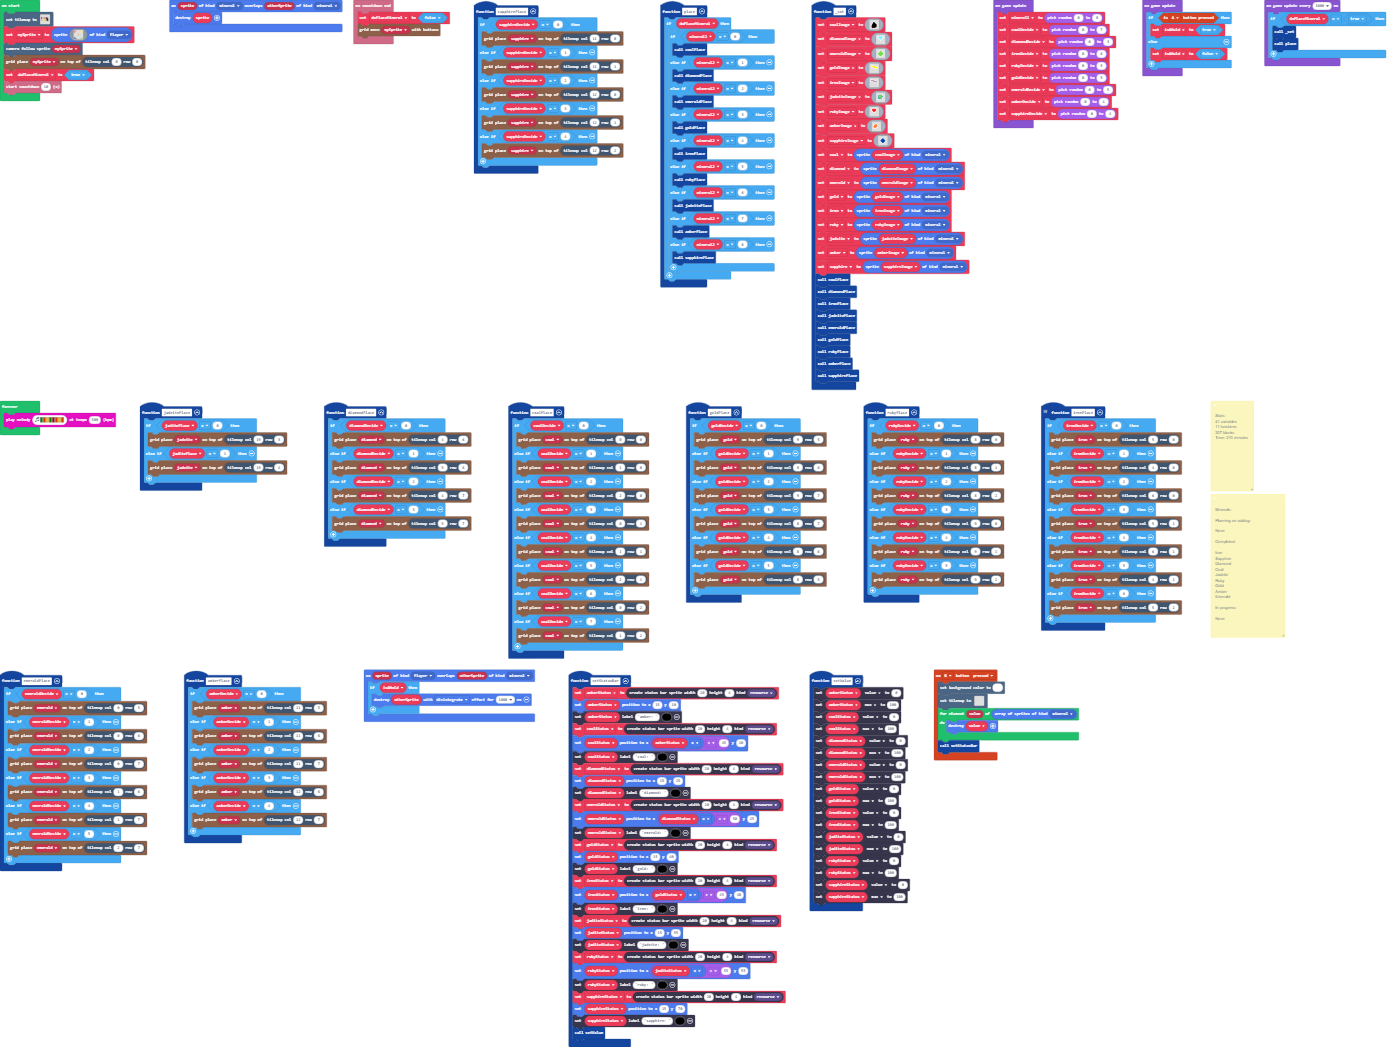
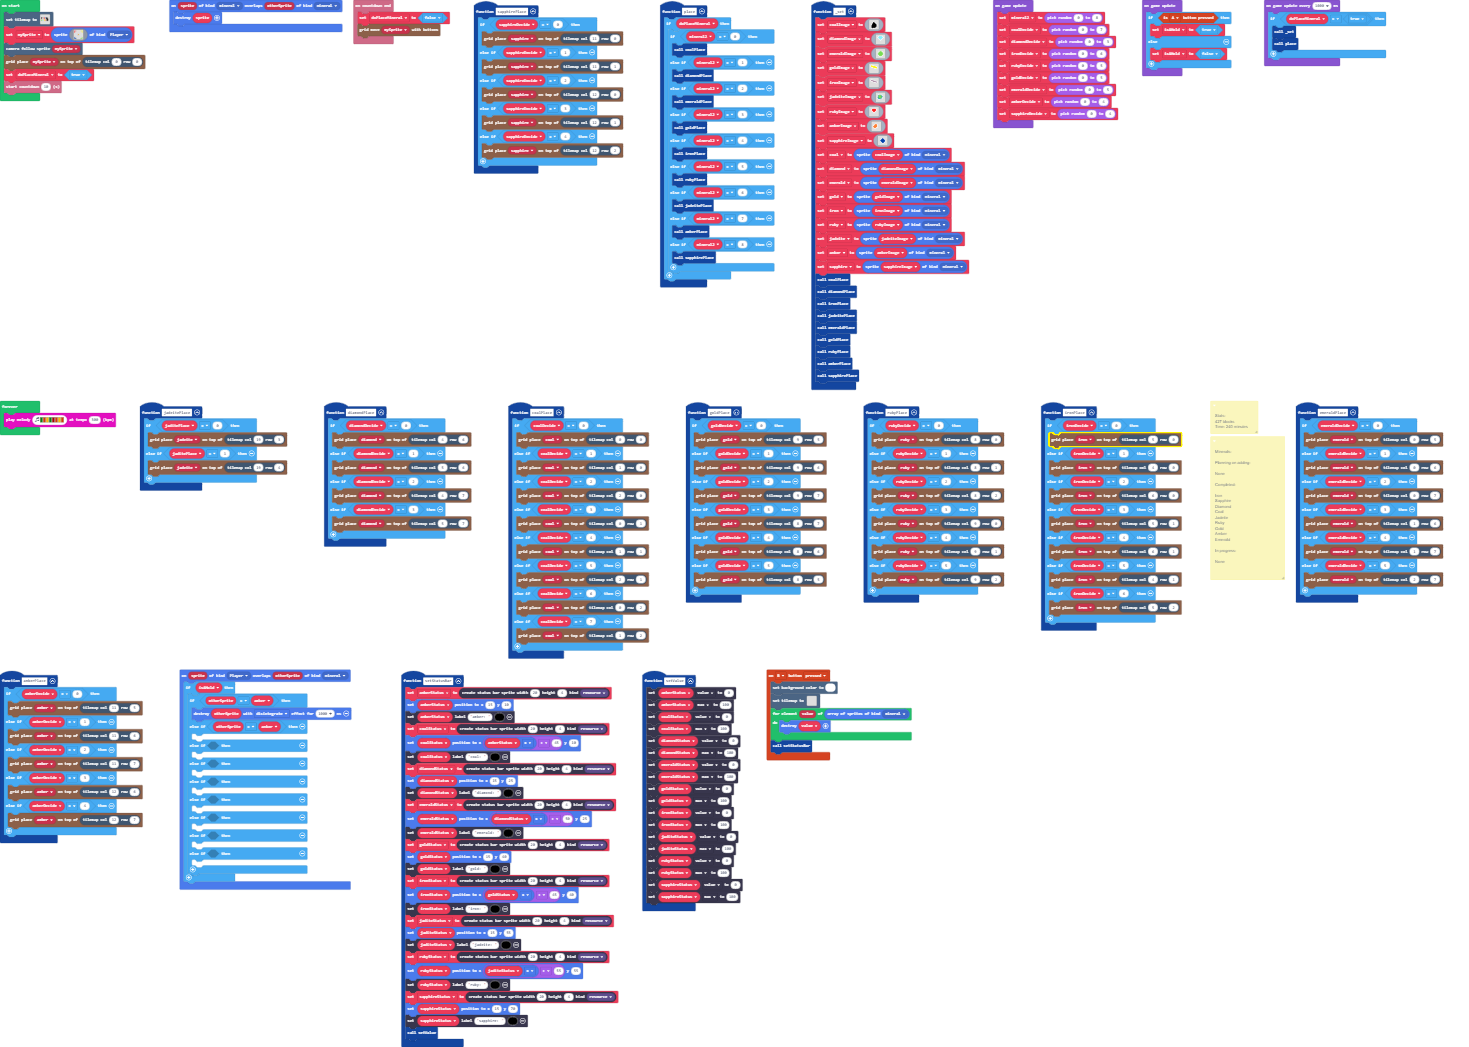
Update main.blocks, main.ts

diff --git a/main.ts b/main.ts
@@ -7,13 +7,9 @@ namespace StatusBarKind {
 /**
  * Stats:
  * 
- * 41 variables
+ * 427 blocks
  * 
- * 11 functions
- * 
- * 307 blocks
- * 
- * Time: 210 minutes
+ * Time: 240 minutes
  */
 /**
  * Minerals:
@@ -46,19 +42,6 @@ namespace StatusBarKind {
  * 
  * None
  */
-// Stats:
-// 
-// 10 functions
-// 
-// 27 variables
-// 
-// 289 blocks
-// 
-// 430 Python lines
-// 
-// 412 JavaScript lines
-// 
-// Time: 2 hours
 function ironPlace () {
     if (ironDecide == 0) {
         grid.place(iron, tiles.getTileLocation(5, 0))
@@ -450,7 +433,25 @@ function emeraldPlace () {
 }
 sprites.onOverlap(SpriteKind.Player, SpriteKind.mineral, function (sprite, otherSprite) {
     if (isAHold) {
-        otherSprite.destroy(effects.disintegrate, 1000)
+        if (otherSprite == amber) {
+            otherSprite.destroy(effects.disintegrate, 1000)
+        } else if (otherSprite == amber) {
+        	
+        } else if (false) {
+        	
+        } else if (false) {
+        	
+        } else if (false) {
+        	
+        } else if (false) {
+        	
+        } else if (false) {
+        	
+        } else if (false) {
+        	
+        } else if (false) {
+        	
+        }
     }
 })
 function amberPlace () {
